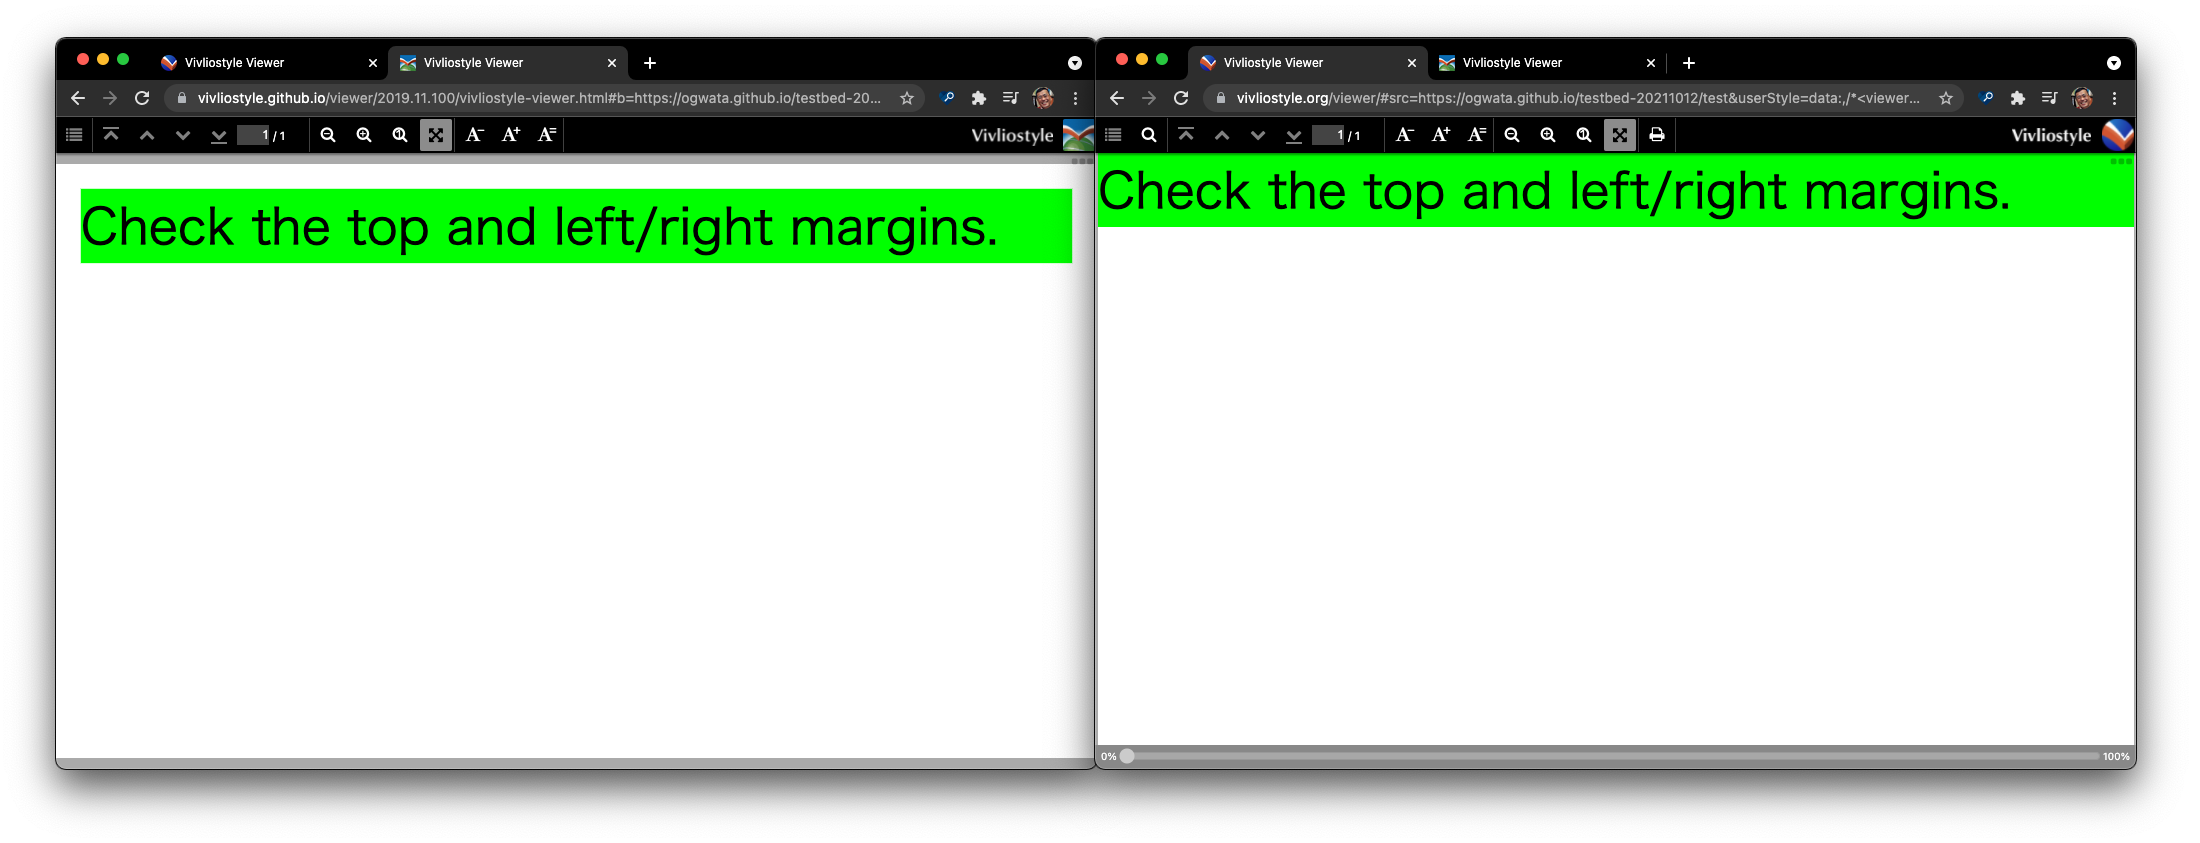
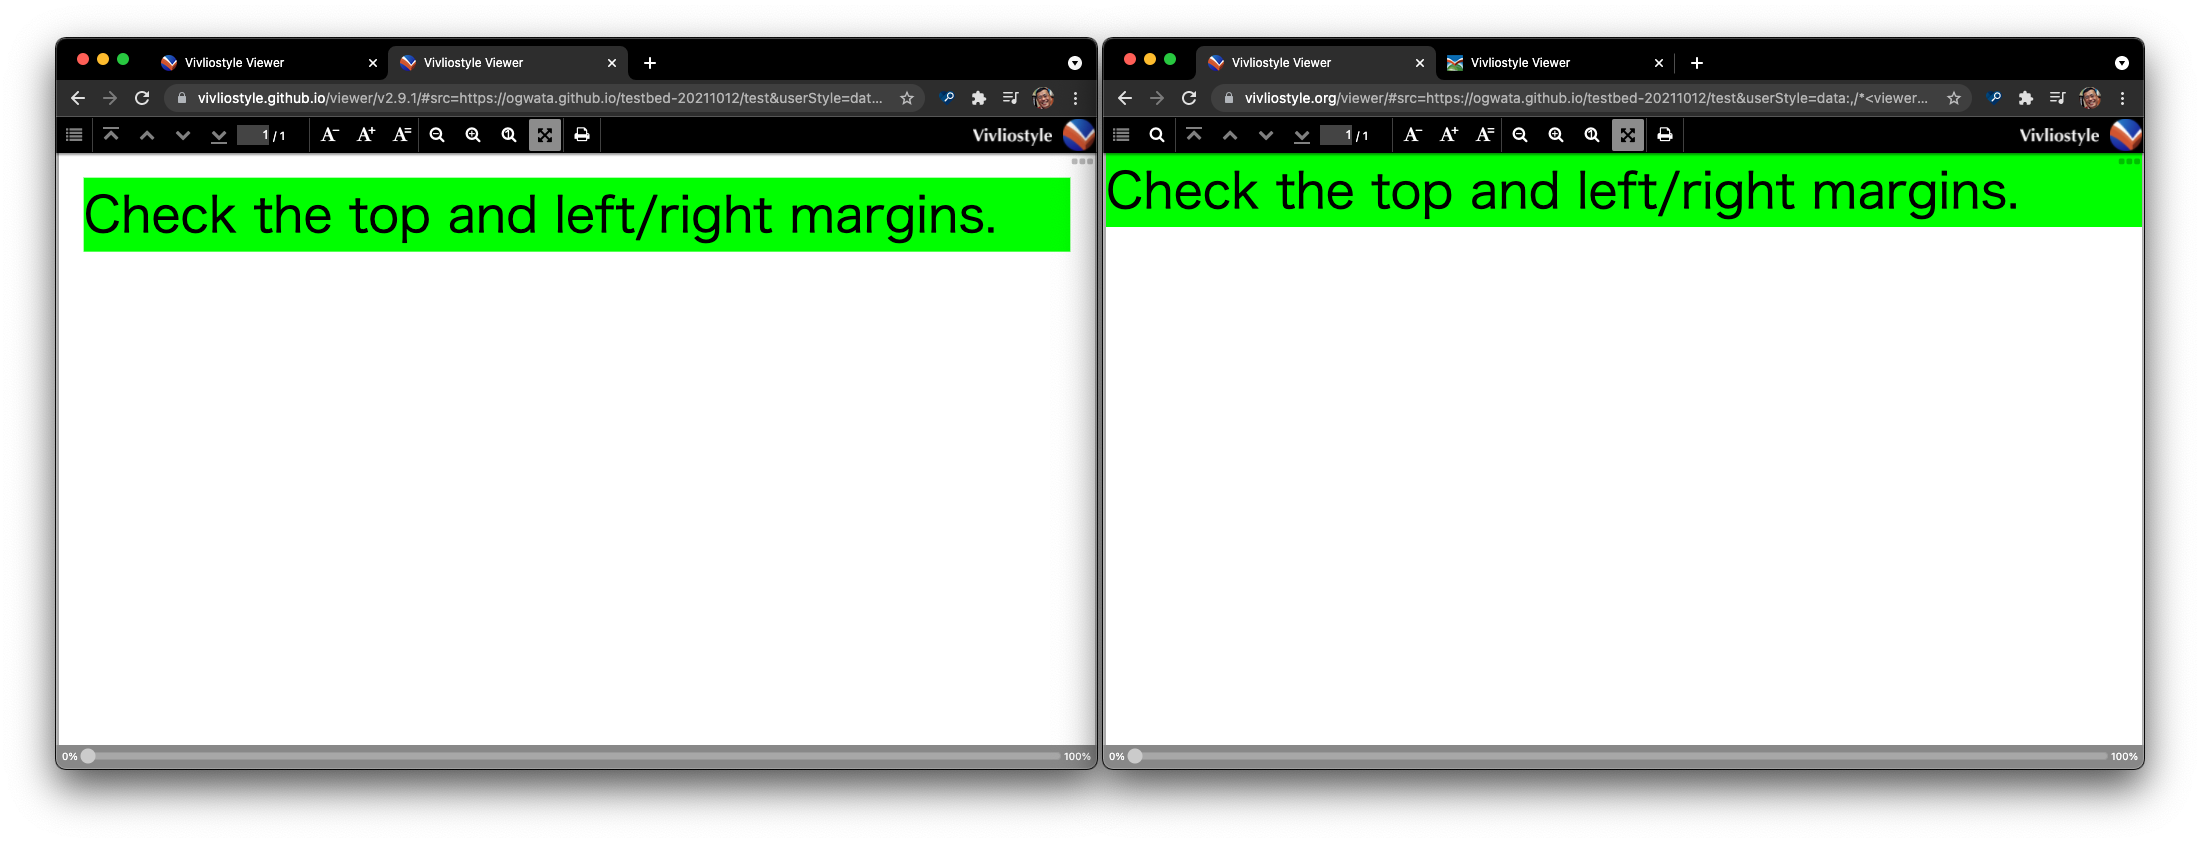
fig-2差替

diff --git a/_posts/ja/2021-10-12-recent-vivliostyle-js-updates.md b/_posts/ja/2021-10-12-recent-vivliostyle-js-updates.md
@@ -34,7 +34,7 @@ tags:
 
 [CSS Paged Media Module Level 3](https://www.w3.org/TR/css-page-3/#variable-auto-margins)では、`body`（本文）と他の要素との`margin`（間隔）の初期値は、`0`と定められています。ところが、v2.10.0 よりも前のバージョンでは初期値は`8`でした。
 
-スクリーンショットをご覧ください。左側のVivliostyle Viewerはv2019.11、つまり2年前のバージョン、そして右側は最新の2.11.1です。左の旧バージョンの緑色枠には間隔が確保されているのに対し、右側の最新バージョンでは間隔はゼロであることが分かります。
+スクリーンショットをご覧ください。左側のVivliostyle Viewerはv2.9.1、そして右側は最新の2.11.1です。左の旧バージョンの緑色枠の外側には間隔が確保されているのに対し、右側の最新バージョンでは間隔はゼロであることが分かります。
 
 この変更は破壊的な変更であり、v2.10.0以降のバージョンは、それより前のバージョンと非互換の関係になります。お手数をお掛けしますが、お手元のデータに影響がないかご確認ください。詳細は下記のIssueを参照してください。スクリーンショットのHTMLとCSSのコードも、このIssueにあるサンプルコードを使っています。
 
